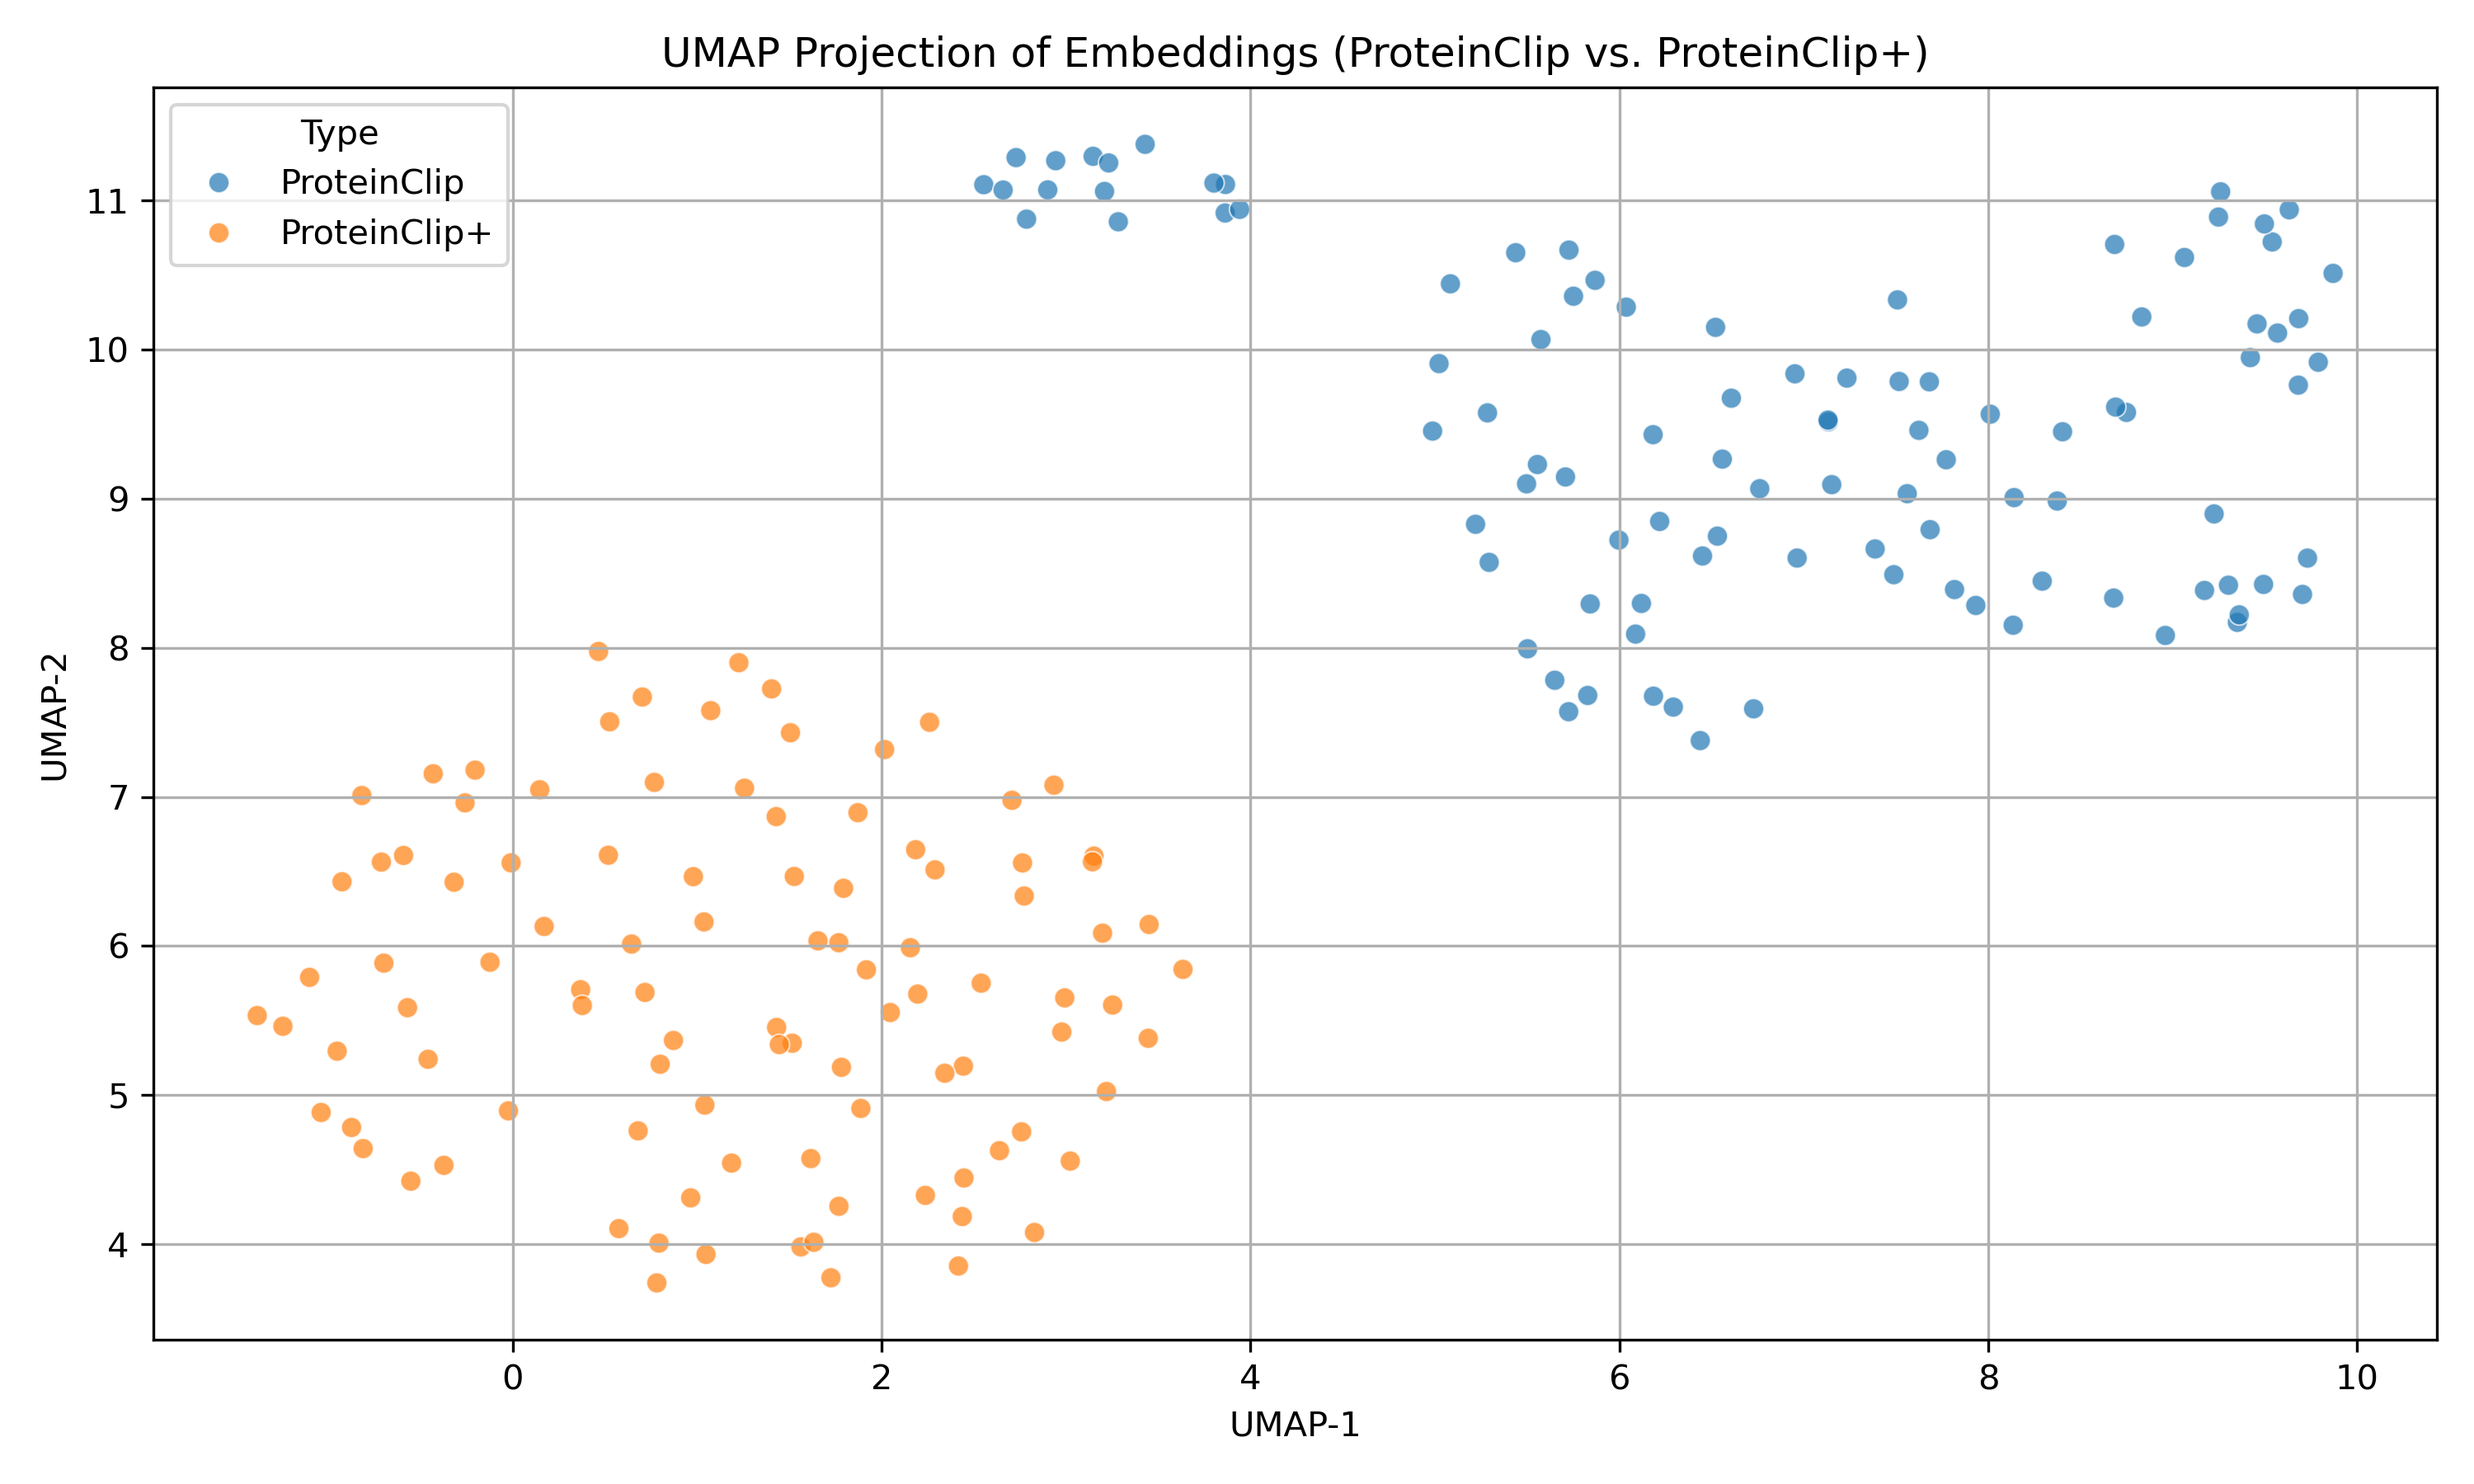
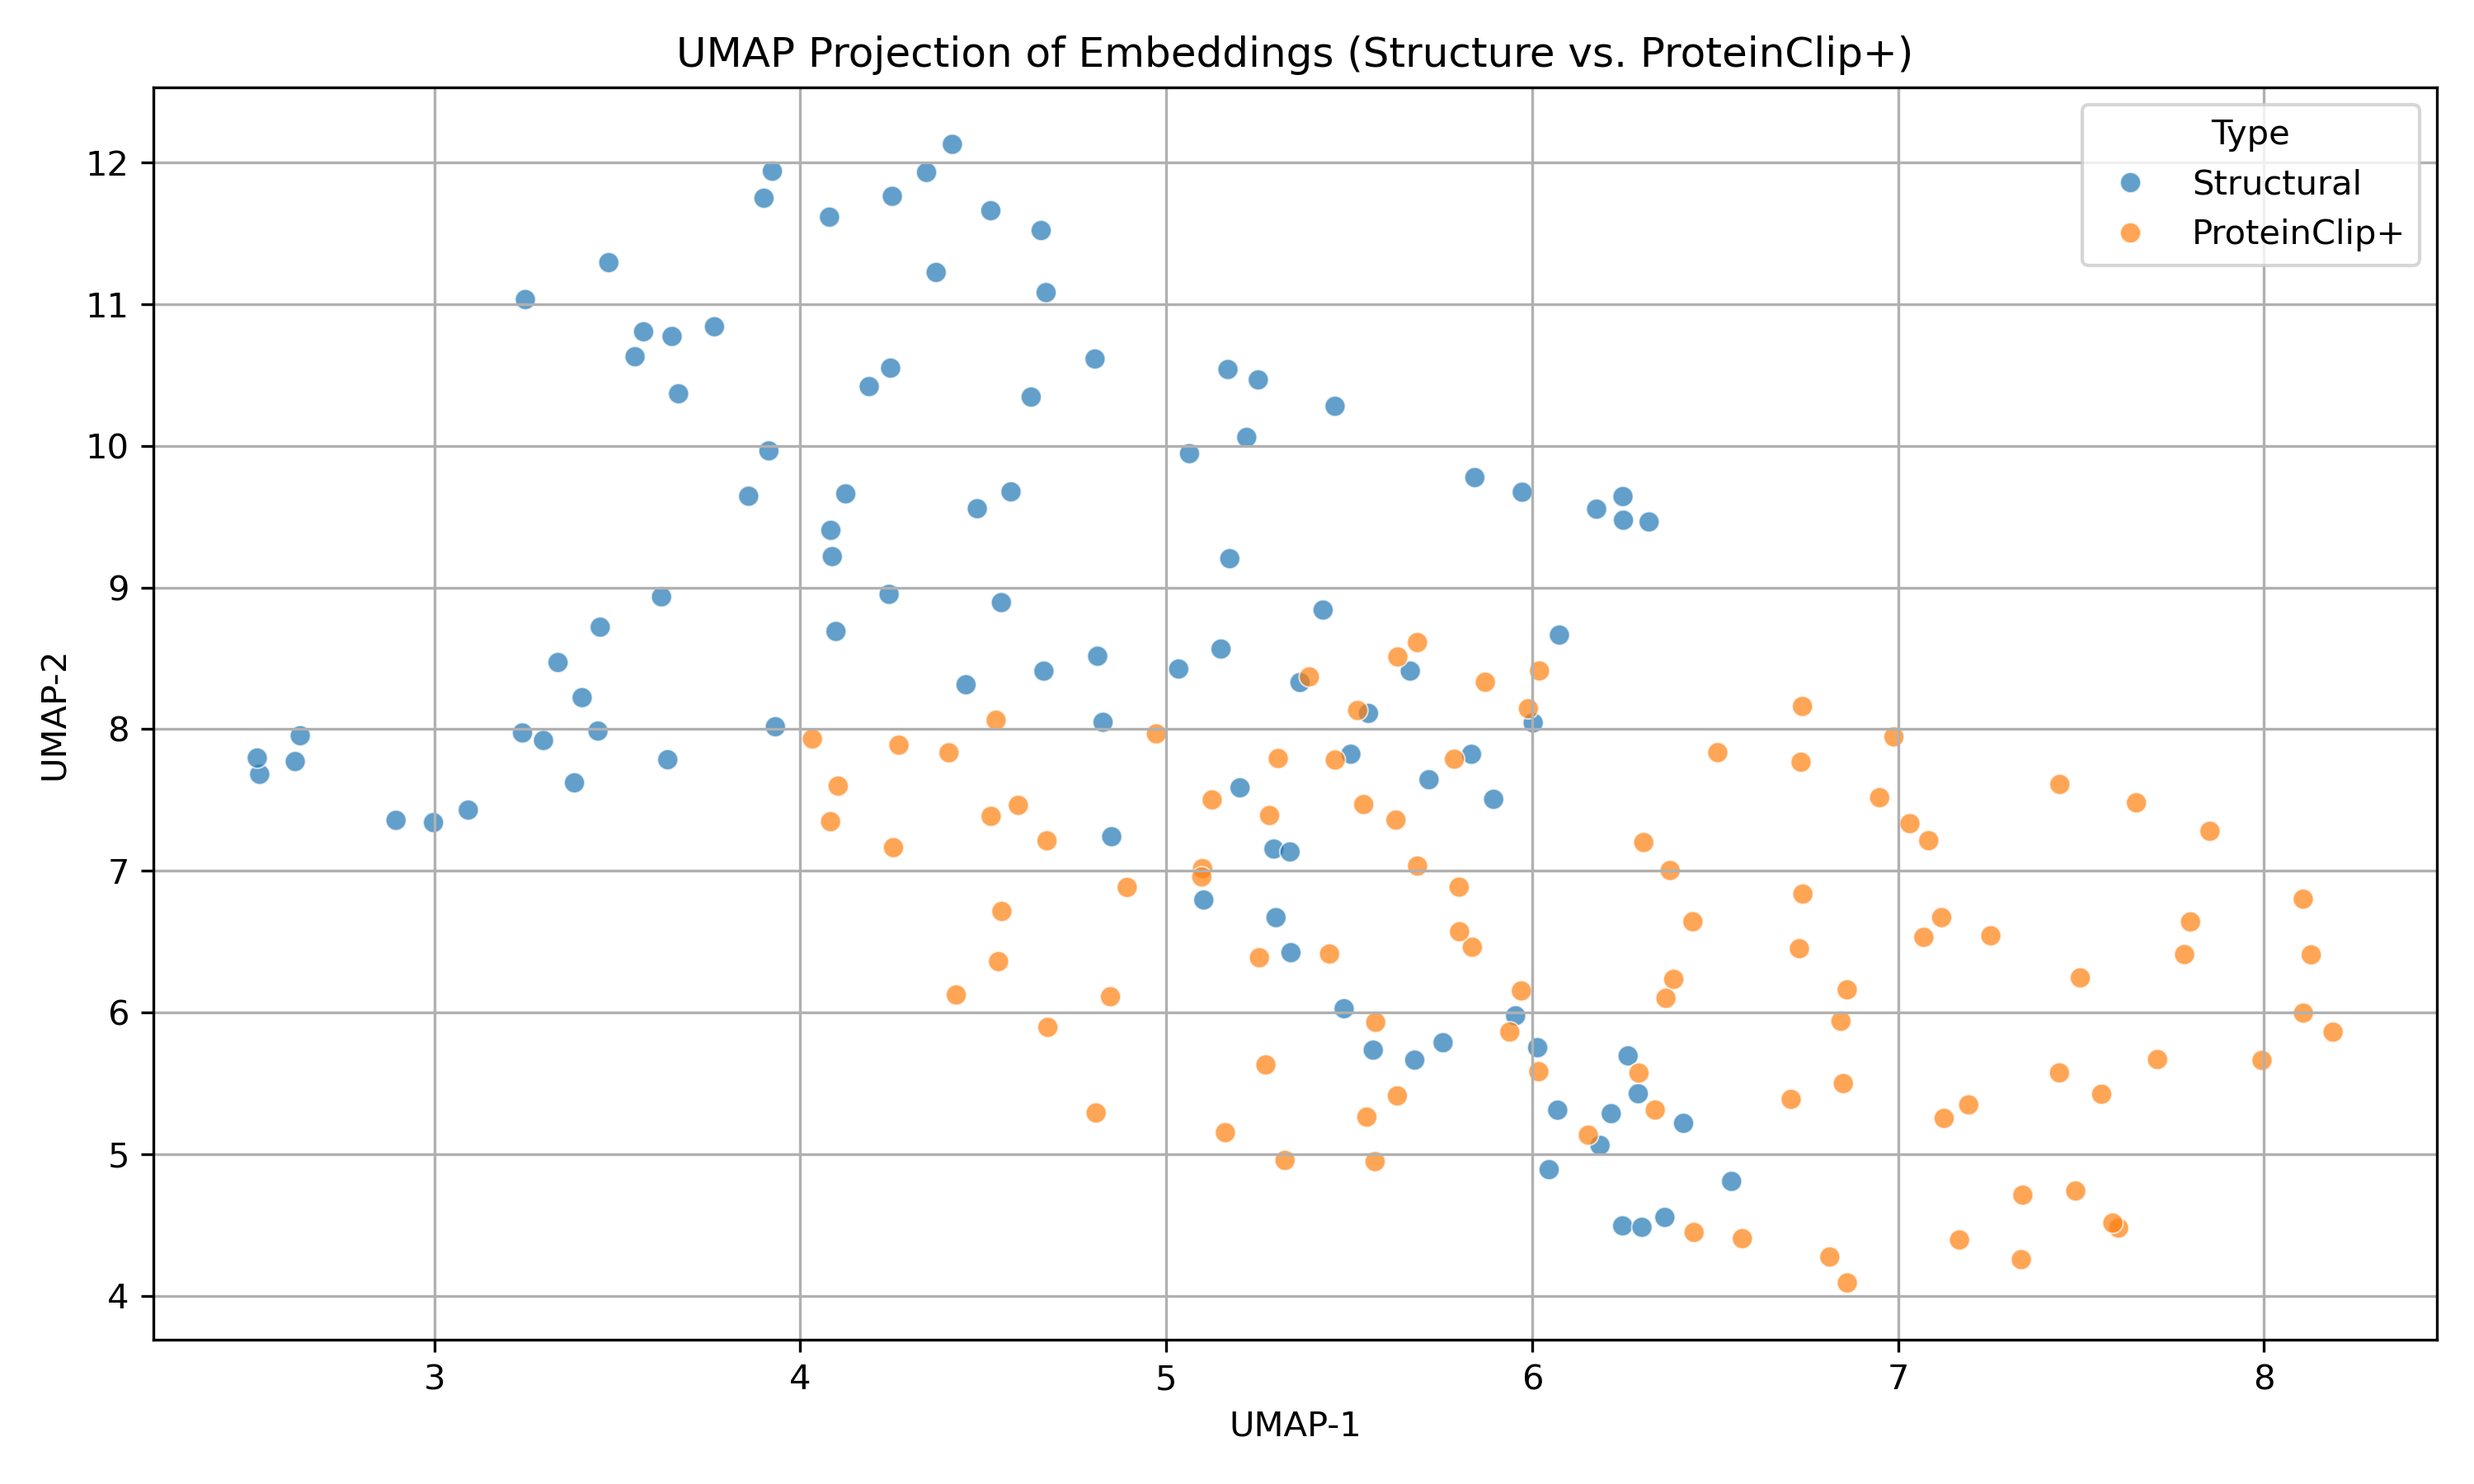
added eval files

diff --git a/eval_proteinclip_pp.py b/eval_proteinclip_pp.py
@@ -11,7 +11,7 @@ options = ort.SessionOptions()
 options.intra_op_num_threads = 2
 
 # Load model with options
-session = ort.InferenceSession("./proteinclip/project_1.onnx", sess_options=options)
+session = ort.InferenceSession("./proteinclip/project3d_1.onnx", sess_options=options)
 
 # Get input details
 df = pd.read_parquet("./proteinclip/protclip_embed_dataset.parquet")
@@ -19,8 +19,18 @@ df = df[2000:2100]
 print('length of input embedding', len(df['proteinclip_embed'].iloc[0]))
 
 input_name = session.get_inputs()[0].name
-input_array = np.stack(df["proteinclip_embed"].to_numpy()).astype(np.float32)
+# input_array = np.stack(df["proteinclip_embed"].to_numpy()).astype(np.float32)
+
 # print(f"Input shape: {input_array.shape}")  # Should be (100, embed_dim)
+
+with open("./data/structural/structural_embeddings_2000_5000.pkl", "rb") as f:
+    embeddings_data = pickle.load(f)
+
+# Convert to DataFrame (assuming the embeddings are stored in a dictionary-like structure)
+df = pd.DataFrame(embeddings_data)
+df = df[0:100]
+input_array = np.stack(df["embedding"].to_numpy()).astype(np.float32)
+
 
 # Run inference
 outputs = session.run(None, {input_name: input_array})
@@ -40,13 +50,13 @@ output_umap = umap_model.fit_transform(output_array)
 plot_df = pd.DataFrame({
     "x": np.concatenate([input_umap[:, 0], output_umap[:, 0]]),
     "y": np.concatenate([input_umap[:, 1], output_umap[:, 1]]),
-    "Type": ["ProteinClip"] * len(input_umap) + ["ProteinClip+"] * len(output_umap)
+    "Type": ["ProteinClip"] * len(input_umap) + ["ProteinClip++"] * len(output_umap)
 })
 
 # Plot
 plt.figure(figsize=(10, 6))
 sns.scatterplot(data=plot_df, x="x", y="y", hue="Type", alpha=0.7, palette=["#1f77b4", "#ff7f0e"])
-plt.title("UMAP Projection of Embeddings (ProteinClip vs. ProteinClip+)")
+plt.title("UMAP Projection of Embeddings (ProteinClip vs. ProteinClip++)")
 plt.xlabel("UMAP-1")
 plt.ylabel("UMAP-2")
 plt.grid(True)
